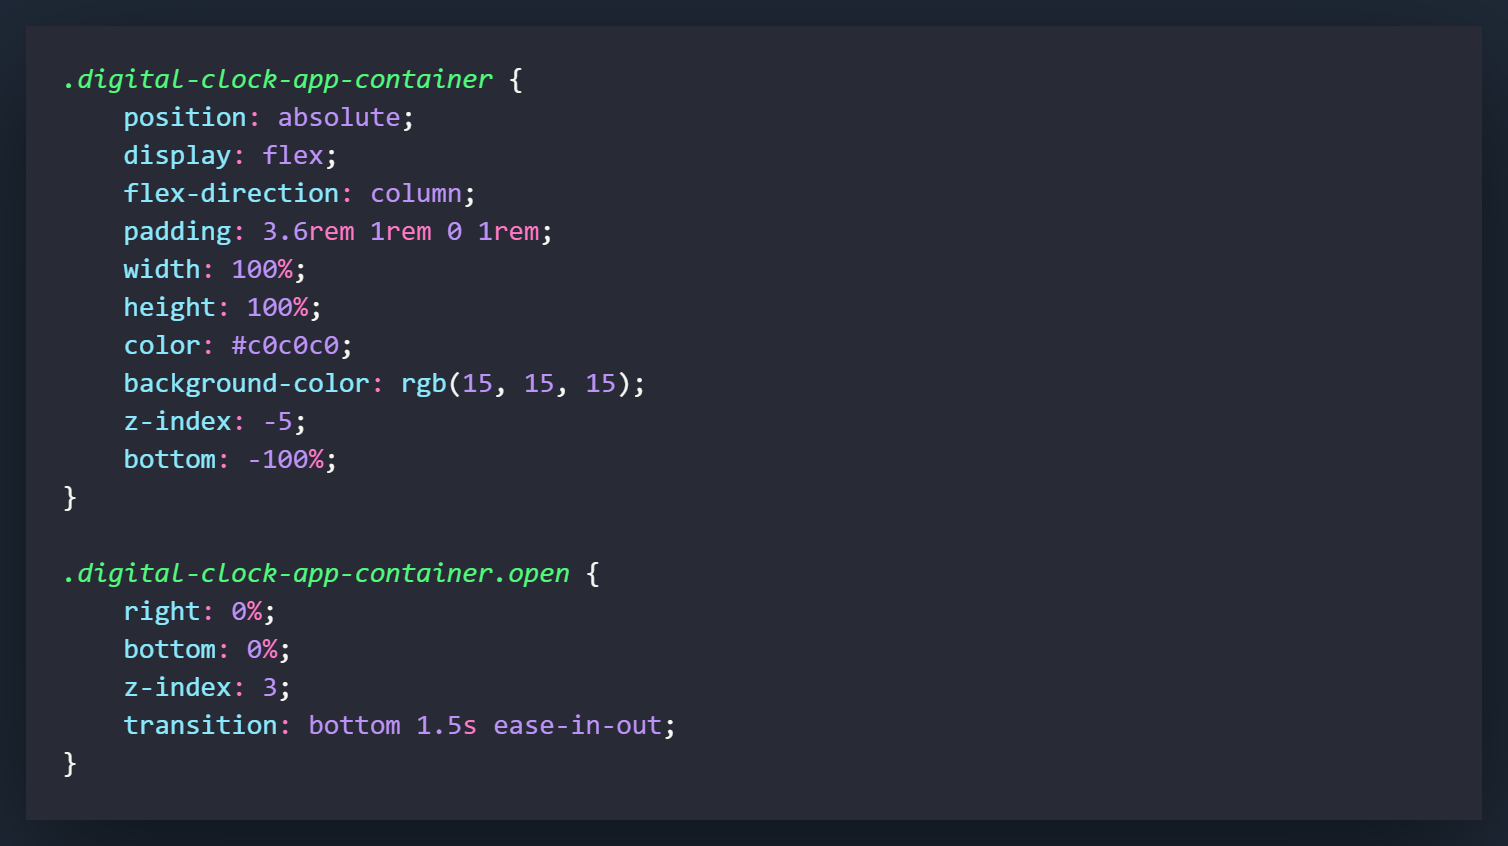
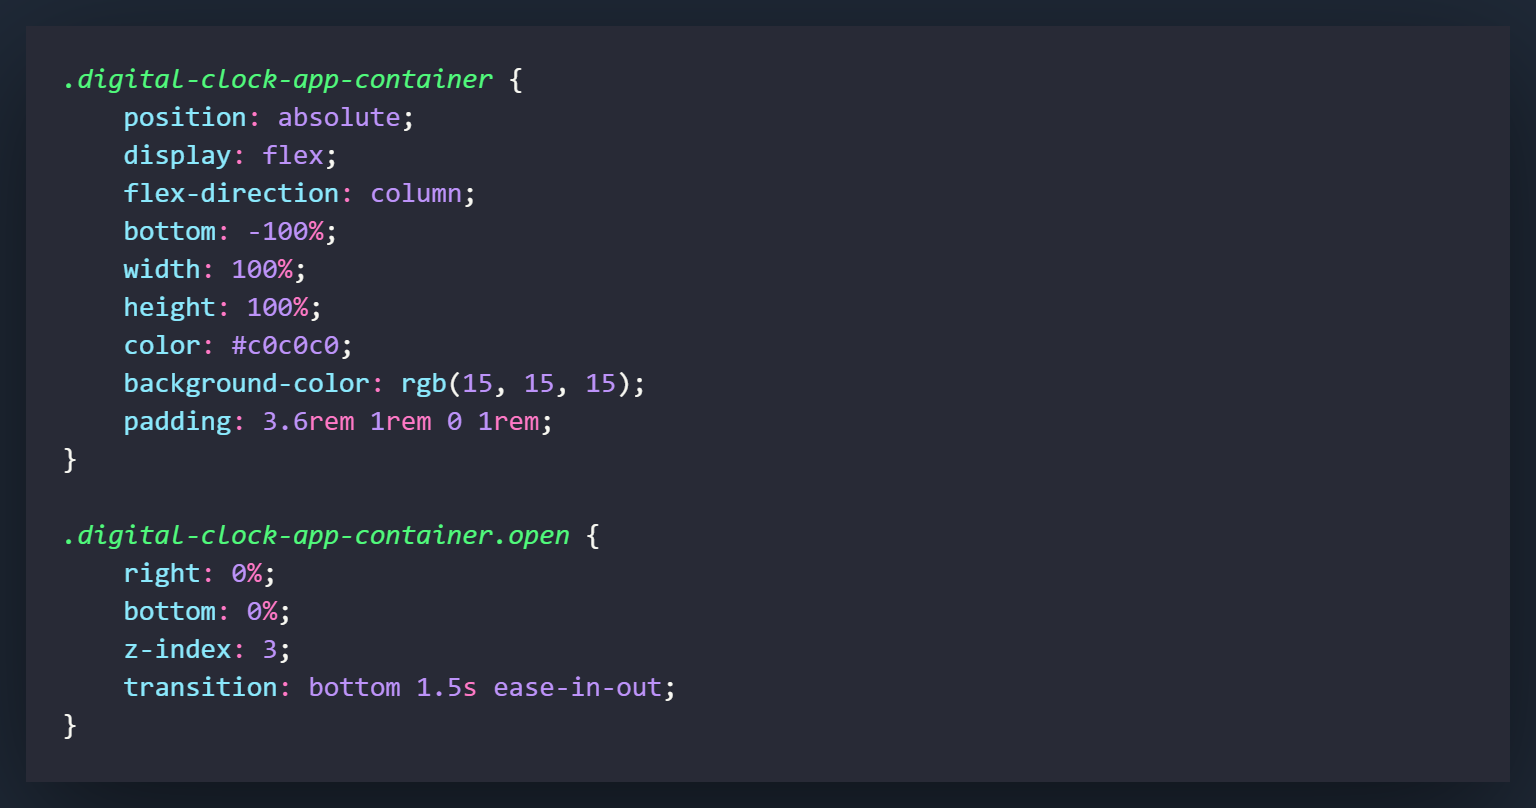
Sliding Overlay / Digital Clock Write Ups

Changed region(s): [[0.0312, 0.0619, 0.4363, 0.5569], [0.0312, 0.6498, 0.4363, 0.8663], [0.0312, 0.5569, 0.0623, 0.5879]]

diff --git a/pages/buildslidingoverlay.html b/pages/buildslidingoverlay.html
@@ -114,63 +114,50 @@
                         <div class="ide-mockup">
                             <img src="/img/slidingoverlay/sliding-overlay-html-001.png">
                         </div>
-                        <ul>
-                            <li>Add top-bezel-smartphone div</li>
-                            <li>Add app-slider div</li>
-                            <li>Add app-slider-content div inside app-slider div.</li>
-                            <li>Add content to the app-slider-content div. Choose any icon, svg, or photo you would like.</li>
-                            <li>Add bottom-bezel-smartphone</li>
-                        </ul>
-
+                        <p>The first thing we will create is the <span class="ide-purple">top-bezel-smartphone</span> div. This will be the top part of the phone that doesn't serve a purpose with the screen but will be used to sandwich the <span class="ide-purple">app slider</span> with the <span class="ide-purple">smart-phone-container</span> div.</p>
+                        <p>Now we will create the <span class="ide-purple">app-slider</span> div. This will be the section of the screen that will move when you unlock the phone by pushing the home button.</p>
+                        <p>Inside the <span class="ide-purple">app-slider</span> div, we will create a div for our <span class="ide-purple">app-content</span>. This div will be what appears on the lock screen. In my example I used a font-awesome icon of a globe but you can put anything you want here.</p>
+                        <p>The final thing we need to add in the HTML is the <span class="ide-purple">bottom-bezel</span> div. Like the <span class="ide-purple">top-bezel</span>, this will sandwich the <span class="ide-purple">app-slider</span> with the <span class="ide-purple">smart-phone-container</span> to create a better screen-like effect.</p>
+                        bottom-bezel-smartphone</li>                       
                     </div>
                     <div class="project-css" id="project-css">
 
                         <div class="ide-mockup">
                             <img src="/img/slidingoverlay/sliding-overlay-css-001.png">
                         </div>
-
-                        <ul>
-                            <li>Change background of .smart-phone-home-button to rgb(7,7,7)</li>
-                            <li>Add z-index of 7</li>
-                        </ul>
+                        <p>In the <span class="ide-purple">.smart-phone-home-button</span> class, we are going to make a few changes from what we had initially.</p>
+                        <p>The first change will be to change the background-color of the button to match the slightly more gray color we used on the top and bottom bezel.</p>
+                        <p>Next we will set the z-index of the button to 7, so that it always on top. As a physical component on the phone, nothing should ever really layer over top of it.</p>                       
 
                         <div class="ide-mockup">
                             <img src="/img/slidingoverlay/sliding-overlay-css-002.png">
                         </div>
-                            
-                        <ul>
-                            <li>Add class and settings for .top-bezel-smartphone</li>
-                            <li>Add class and settings for .bottom-bezel-smartphone</li>
-                        </ul>
-
+                        <p>Now we will style the top and bottom bezel classes. Most of it involves styling except for the z-index. We will set that to 5 so it sits below the button but over top of everything that appears on the screen.</p>
+                        <p>As long as nothing on our screen is set to a z-index of more than 5, we should not have anything layer over top of the bezels.</p>                      
                         <div class="ide-mockup">
                             <img src="/img/slidingoverlay/sliding-overlay-css-003.png">
                         </div>
-
-                        <ul>
-                            <li>Add class and settings for .app-slider</li>
-                            <li>Add class and settings for .app-slider.opened</li>
-                        </ul>
-
+                        <p>For the <span class="ide-purple">.app-slider</span> class we will have to add a few key things to make it functional. First set the the position to absolute so we can freely place the div where we would like.</p>
+                        <p>The right setting is what we need to set to make the div slide when we add the class of <span class="ide-purple">.opened</span> in the next class setting. This div will sit at a right position of 0% which is as far right as it can, and then when we add the <span class="ide-purple">.opened</span> class it will slide to the right by -100%. Meaning it will slide out of view.</p>
+                        <p>The transition setting is what will set how the changing of the right value will appear. If we didn't add the transition it would just instantly go to the -100% right position. With this setting, it will slide to the position over the span of 0.5 seconds.</p>
+                        <p>The z-index setting for the <span class="ide-purple">.app-slider</span> is 3, which will place it between <span class="ide-purple">.smart-phone-container</span> (z-index of 0) and the <span class="ide-purple">top/bottom bezels</span> (z-index of 5).</p>
+                        <p>The <span class="ide-purple">.app-slider.opened</span> class will be what happens when the class of <span class="ide-purple">.opened</span> is added to the <span class="ide-purple">.app-slider</span> class. This is right position that the div will slide to when it is added.</p>                     
                         <div class="ide-mockup">
                             <img src="/img/slidingoverlay/sliding-overlay-css-004.png">
                         </div>
-
-                        <ul>
-                            <li>Add class and settings for .app-slider-content</li>
-                        </ul>
-   
+                        <p>The <span class="ide-purple">.app-slider-content</span> will be what styles are applied to the content of the sliding div. Everything is pretty much used for styling and alignment with exception of the z-index. We will set this to the same z-index as the <span class="ide-purple">.app-slider</span> div (3).</p>                         
                     </div>
                     <div class="project-javascript" id="project-javascript">
 
                         <div class="ide-mockup">
                             <img src="/img/slidingoverlay/sliding-overlay-javascript-001.png">
                         </div>
-                        <ul>
-                            <li>Create the .app-slider variable by using getElementById on 'app-slider'</li>
-                            <li>Add the class of 'opened' to the appSlider variable.</li>
-                        </ul>
-                                                  
+                        <p>The JavaScript for this section is very simple and only requires us to add the class of <span class="ide-purple">opened</span> to the <span class="ide-purple">app-slider</span> element.</p>
+                        <p>We will be adding the code for this to the 'click' eventListener we created on the <span class="ide-purple">smartPhoneHomeBtn</span> variable in the previous section.</p>
+                        <p>The first thing we will do is create a variable called appSlider, that we will obtain by using getElementById on 'app-slider.' This is the same element that we styled under the <span class="ide-purple">.app-slider</span> class, but since we assigned an ID to it in the HTML, we can use that for the variable.</p>
+                        <p>Now we will add the class of <span class="ide-purple">.opened</span> to the <span class="ide-purple">appSlider</span> variable.</p>
+                        <p>Now when you click the button, the <span class="ide-purple">appSlider</span> div should slide to the right by -100% of the width of the div. On a regular smartphone, pressing the button again will not lock the screen, so this will be set as the only function for the time being.</p>
+                                                                        
                     </div>
                 </div>
             </div>

diff --git a/pages/builddigitalclock.html b/pages/builddigitalclock.html
@@ -106,48 +106,35 @@
                 </div>
                 <div class="project-inner-container">
                     <div class="project-summary active" id="project-summary">
-                        <p>When I was first planning this project, I was going to make a digital timer. As I got further into building it, I realized that before you learn how to walk, you should really learn how to crawl. </p>
-                        <p>Dates and times in JavaScript are not as straight forward as you would believe them to be, so I decided to start at the beginning and create a digital clock. Of course, I decided to have some fun with it and spice it up by employing a few fun CSS tricks.</p>
-                        <p>If you build this project, don't delete it because I plan on using it as the base for more projects in the future.</p>
+                        <p>Now we will start working on our first "app" of the smartphone project, a digital clock.</p>
+                        <p>Dates and times in JavaScript are fairly easy to figure out but there are a few tricks you need to employ to turn them into a standard clock that we use on a regular basis.</p>
+                        <p>In the JavaScript for this project, we will convert the time from a 24 hour clock to a 12 hour clock and add 0's to any numbers that are less than 10. It's a nice basic project that should be a great start for anyone newer to JavaScript.</p>
                     </div>       
                     <div class="project-html" id="project-html">
                         <div class="ide-mockup">
                             <img src="/img/digitalclock/digital-clock-html-001.png">
                         </div>
-
-                        <ul>
-                            <li>Create digital-clock-app-container div.</li>
-                            <li>Create current-time-clock div inside of digital-clock-app-container.</li>
-                            <li>Create current-date-clock div inside of digital-clock-app-container.</li>
-                        </ul>
+                        <p>There is not many things that we need to add to the HTML for this project. It is basically a parent div with 2 divs nested inside of it.</p>
+                        <p>The first thing we will do is create the <span class="ide-purple">digital-clock-app-container</span> div. This will serve as the container for the content of the app.</p>
+                        <p>Next we will add 2 divs inside of the <span class="ide-purple">digital-clock-app-container</span>. The first will be the <span class="ide-purple">current-time-clock</span> which will house the time. The second will be the <span class="ide-purple">current-date-clock</span> which will house the current date.</p>                       
                     </div>
                     <div class="project-css" id="project-css">
                         <div class="ide-mockup">
                             <img src="/img/digitalclock/digital-clock-css-001.png">
                         </div>
-
-                        <ul>
-                            <li>Create top-bezel-smartphone.app-open class and settings.</li>
-                            <li>Create bottom-bezel-smartphone.app-open class and settings.</li>
-                        </ul>
-
+                        <p>The next 2 class settings we will create are purely for cosmetics. They will create a pink bar on the bottom of the top bezel and at the top of the bottom bezel, anytime an app is opened.</p>
+                        <p>Revisit the class settings we created for <span class="ide-purple">top-bezel-smartphone</span> and <span class="ide-purple">.bottom-bezel-smartphone</span> and make a separate class setting with the <span class="ide-purple">.app-open</span> class attached. The 2 settings for these classes basically set the border and a transition so they fade in when they are added.</p>
+                        
                         <div class="ide-mockup">
                             <img src="/img/digitalclock/digital-clock-css-002.png">
                         </div>
-
-                        <ul>
-                            <li>Create digital-clock-app-container class and settings</li>
-                            <li>Create digital-clock-app-container.open class and settings</li>
-                        </ul>
-
+                        <p>The <span class="ide-purple">.digital-clock-app-container</span> class will be what we use to style the container for the app. The position of absolute is so we can change the initial starting point of the div. Most of the other attributes are used for styling and alignment of the elements inside of the div, with the exception of the <span class="ide-purple">bottom</span> setting.</p>
+                        <p>At it's default resting state, we want this div to sit underneath the screen so it can slide in. We will achieve this by setting the <span class="ide-purple">bottom</span> attribute to -100%. When the <span class="ide-purple">.open</span> class is added it will cause the div to slide up to a bottom setting of 0%</p>
+                        <p>The settings when the <span class="ide-purple">.open</span> class is added are actually the most important to make this div function properly. When <span class="ide-purple">.open</span> is added to <span class="ide-purple">.digital-clock-app-container</span>, the div is going to slide up to sit at 0%. When it is added we also want the z-index to change to 3 so it will sit above everything on the home screen. The other setting that will be changed later on in the project is the <span class="ide-purple">right</span> attribute. This is going to set <span class="ide-purple">right</span> to 0% for the time being, later on when we remove the app, we will set it to -100% causing it to slide off screen.</p>                 
                         <div class="ide-mockup">
                             <img src="/img/digitalclock/digital-clock-css-003.png">
                         </div>
-
-                        <ul>
-                            <li>Create current-time-clock class and settings.</li>
-                            <li>Create current-date-clock class and settings.</li>
-                        </ul>
+                        <p>The next settings are how the time and date settings are going to look in the app. These can actually be changed to however you would like them to appear. </p>
                     </div>
                     <div class="project-javascript" id="project-javascript">
                         <div class="ide-mockup">

diff --git a/css/styles.css b/css/styles.css
@@ -737,13 +737,11 @@ a {
 
 .app-slider {
     position: absolute;
-    background-color: #fff;
-    bottom: 3.25em;
     right: 0%;
+    bottom: 3.25em;
+    background-color: #000;
     height: 24em;
     width: 100%;
-    z-index: 10;
-    opacity: 1;
     transition: right 0.5s ease-in-out;
     z-index: 3;
 }
@@ -769,13 +767,12 @@ a {
     position: absolute;
     display: flex;
     flex-direction: column;
-    padding: 3.6rem 1rem 0 1rem;
+    bottom: -100%;
     width: 100%;
     height: 100%;
     color: #c0c0c0;
     background-color: rgb(15, 15, 15);
-    z-index: -5;
-    bottom: -100%;
+    padding: 3.6rem 1rem 0 1rem;
 }
 
 .digital-clock-app-container.open {
@@ -965,7 +962,6 @@ a {
         opacity: 0;
     }
 }
-
 
 
 /* Extra small devices (phones, 600px and down) */

diff --git a/pages/buildtargetapppart3.html b/pages/buildtargetapppart3.html
@@ -106,6 +106,11 @@
                     <p id="target-spinner-text" class="target-spinner-text"></p>
                 </div>
                 <!-- SPINNER CODE END -->
+                <!-- TARGET FOUND CONTAINER START -->
+                <div id="target-found-container" class="target-found-container">
+                    
+                </div>
+                <!-- TARGET FOUND CONTAINER END -->
             </div>
             <div class="target-btn-container">
                 <button class="find-new-target-btn" id="find-new-target-btn">FIND TARGETS IN AREA</button>
